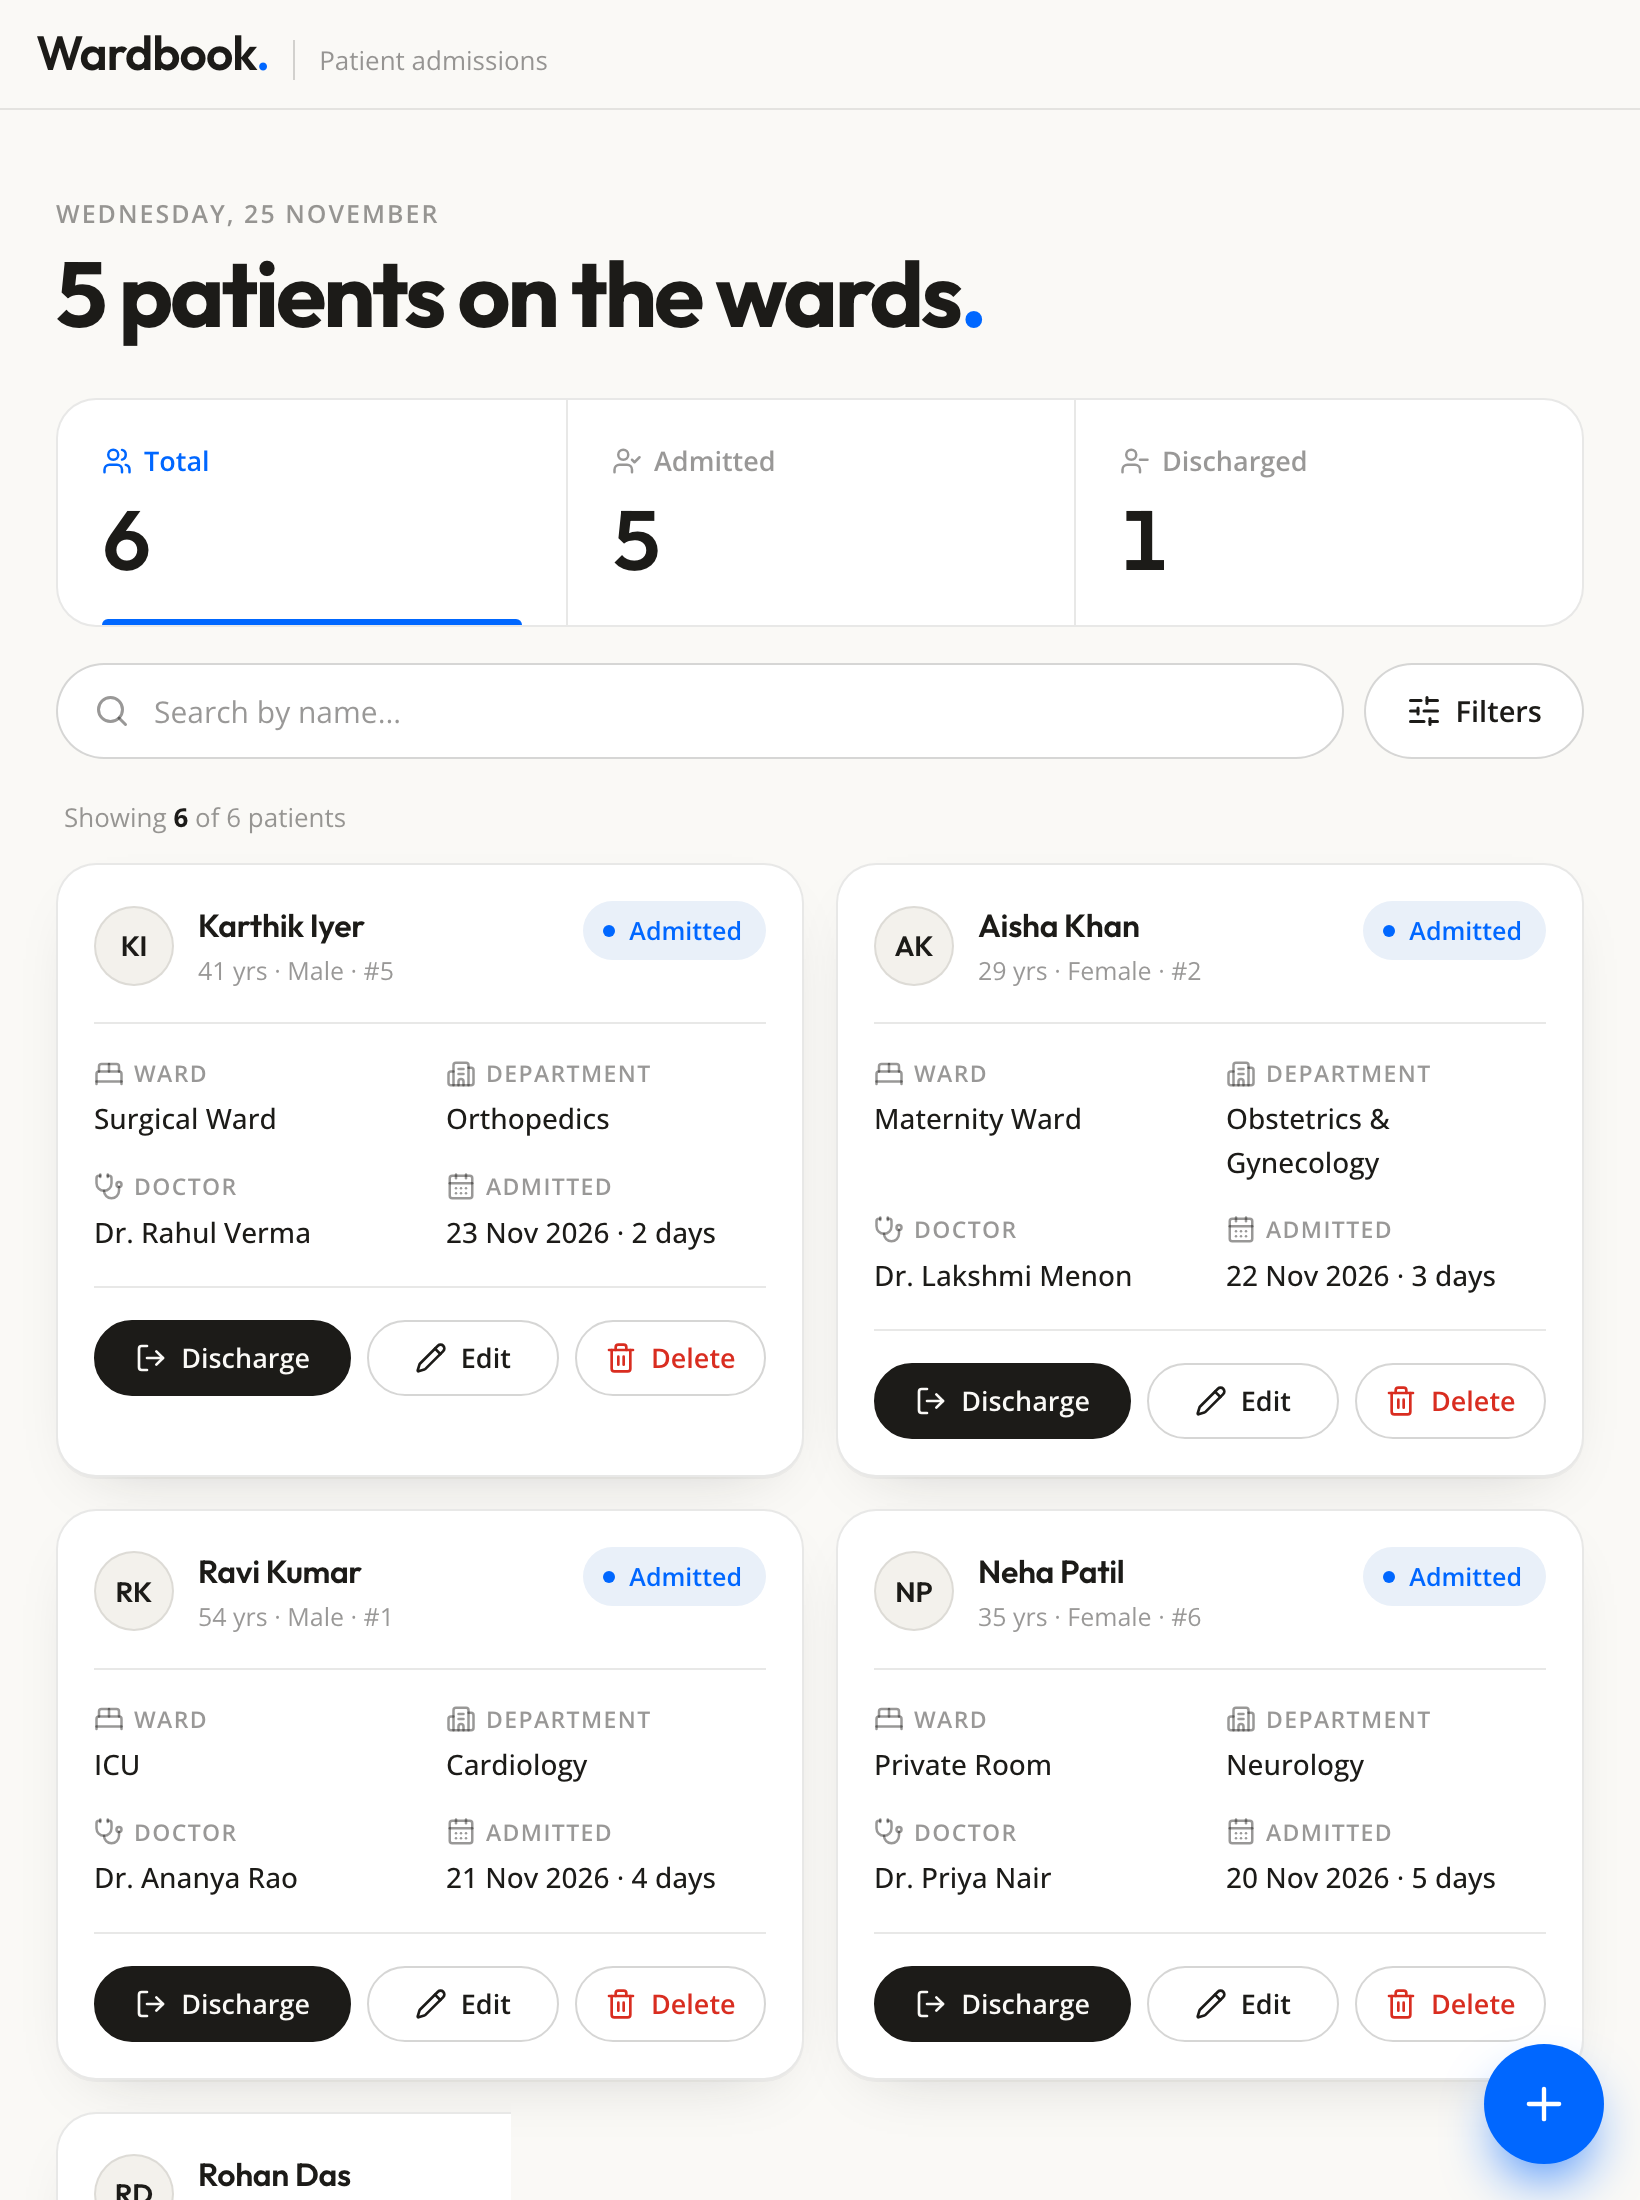
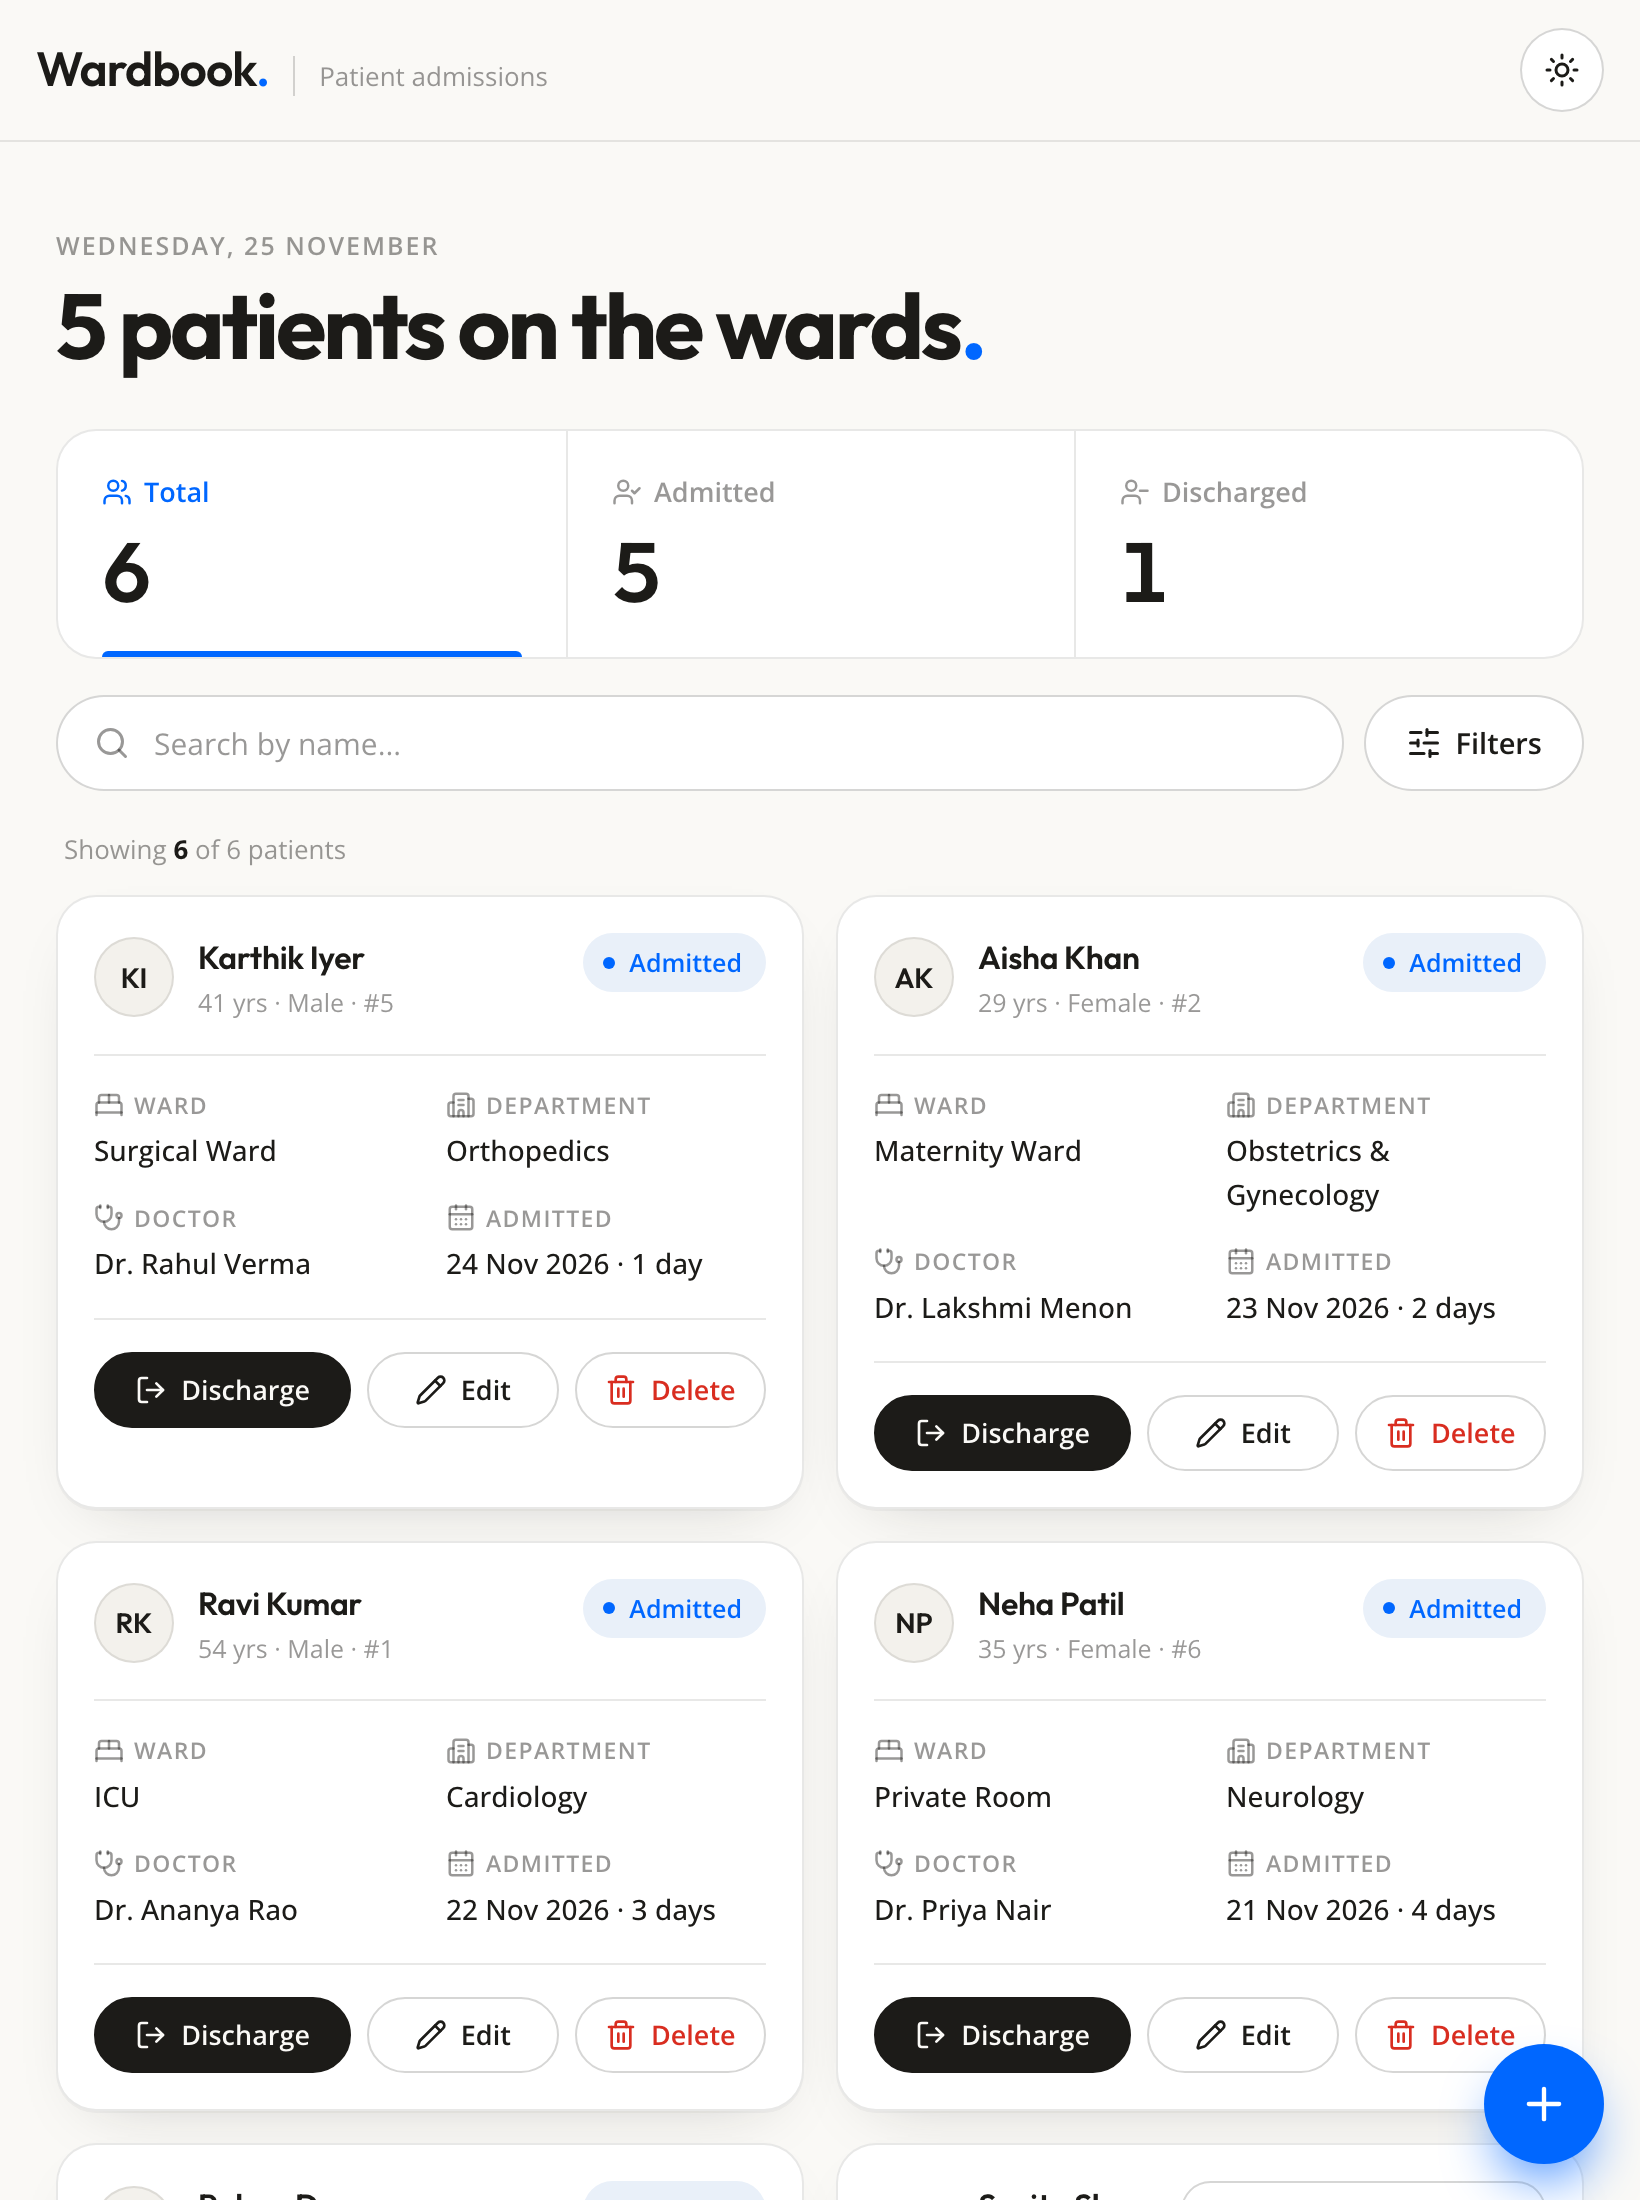
README: requirements checklist, landing page, new screenshots; wrap card badge

diff --git a/frontend/src/index.css b/frontend/src/index.css
@@ -252,7 +252,8 @@ button:disabled { cursor: not-allowed; opacity: 0.5; }
 @media (hover: hover) {
   .card:hover { border-color: var(--line-2); transform: translateY(-2px); box-shadow: 0 18px 40px -24px rgba(28, 27, 24, 0.35); }
 }
-.card-top { display: flex; align-items: flex-start; justify-content: space-between; gap: 10px; }
+.card-top { display: flex; flex-wrap: wrap; align-items: flex-start; justify-content: space-between; gap: 10px; }
+.card-top .patient { flex: 1 1 170px; } /* badge wraps under the name instead of squeezing it */
 .meta { display: grid; grid-template-columns: minmax(0, 1fr) minmax(0, 1fr); gap: 14px 16px; margin: 16px 0; padding: 16px 0; border-block: 1px solid var(--line); }
 .meta div { min-width: 0; }
 .meta dt { display: flex; align-items: center; gap: 5px; font-size: 11.5px; font-weight: 600; letter-spacing: 0.06em; text-transform: uppercase; color: var(--ink-3); }

diff --git a/README.md b/README.md
@@ -2,17 +2,43 @@
 
 A web app for hospital staff to admit, track and discharge patients.
 
-**Live app:** https://wardbook-patient-admission.vercel.app (frontend and backend on one URL)
+- **Live app:** https://wardbook-patient-admission.vercel.app/app (the ward board)
+- **Landing page:** https://wardbook-patient-admission.vercel.app
+- **Repo:** https://github.com/mdayan8/wardbook-patient-admission
 
-**Repo:** https://github.com/mdayan8/wardbook-patient-admission
+Frontend and backend run on one URL; no login is needed.
 
-| Desktop | Dark mode |
+| Landing page | Ward board (desktop) | Dark mode |
+|---|---|---|
+| ![Landing](docs/landing.png) | ![Desktop](docs/desktop.png) | ![Dark](docs/desktop-dark.png) |
+
+| Phone | Phone filters | Validation | Tablet | Small laptop |
+|---|---|---|---|---|
+| ![Phone](docs/mobile.jpg) | ![Filters](docs/mobile-filters.jpg) | ![Form](docs/form-validation.jpg) | ![Tablet](docs/tablet.png) | ![Laptop](docs/laptop.png) |
+
+## Requirements checklist
+
+Every item below was tested on the live site (backend: 37 automated checks; frontend: driven through the real UI).
+
+| Requirement | Where / how |
 |---|---|
-| ![Desktop](docs/desktop.png) | ![Dark](docs/desktop-dark.png) |
-
-| Phone | Phone filters | Validation | Tablet |
-|---|---|---|---|
-| ![Phone](docs/mobile.jpg) | ![Filters](docs/mobile-filters.jpg) | ![Form](docs/form-validation.jpg) | ![Tablet](docs/tablet.png) |
+| Patient fields: name, age, gender, ward, department, doctor, admission date, status | `backend/main.py` table + form in `PatientForm.jsx` |
+| 1. Add a patient | "Add patient" button (or `N`), new patients start as Admitted |
+| 2. View all patients | `/app`: table ≥ 1180px, cards below |
+| 3. Filter by ward, department, doctor | Three dropdowns (combine freely); `GET /api/patients?ward=&department=&doctor=` |
+| 4. Search by name | Search box, case-insensitive, matches highlighted |
+| 5. Edit a patient | Pencil button opens the form prefilled; same validation |
+| 6. Delete with confirmation | Trash button → "Delete …? This can't be undone" dialog |
+| 7. Mark as discharged | One click, records the discharge date, Undo in the toast |
+| 8. Works on mobile, tablet, desktop | Checked at 360, 390, 768, 1024, 1180 and 1440px with no sideways scrolling |
+| Validation in frontend **and** backend | `frontend/src/validation.js` and `PatientIn` in `backend/main.py` (same rules) |
+| Backend rejects bad data with a clear message | `422 {"message": ..., "errors": {field: message}}` |
+| React frontend | React 19 (Vite) |
+| Backend not Node.js | Python (FastAPI) |
+| Data survives restart | Postgres; a record was confirmed present after two redeploys |
+| Public repo, live link, README with screenshots | This page |
+| No passwords or keys in GitHub | Database URL lives only in Vercel environment settings; history scanned |
+| No login required | Open the link and use it |
 
 ## Tech stack
 
@@ -36,7 +62,9 @@ A web app for hospital staff to admit, track and discharge patients.
 - Loading: skeleton rows shaped like the real list, a thin progress bar on refresh, spinners on save/delete
 - Form: gender segmented control, Today/Yesterday date shortcuts, doctor list follows the department,
   errors appear inline as you type and the first invalid field gets focus on submit
-- Light and dark mode follow the system setting; respects reduced-motion
+- Light/dark toggle (sun/moon button) with a circular wipe; remembers your choice, defaults to the system setting
+- Landing page at `/` with a live preview of the ward list; the ward board is at `/app`
+- Respects reduced-motion settings
 
 ## Validation (frontend **and** backend)
 
@@ -107,7 +135,9 @@ No passwords or keys are in this repo; the database URL comes only from environm
 ```
 backend/main.py        FastAPI app: models, validation, routes
 backend/test_api.py    API tests
-frontend/src/App.jsx   list, filters, search, stats, delete dialog
+frontend/src/Landing.jsx  landing page at /
+frontend/src/App.jsx   ward board at /app: list, filters, search, stats, delete dialog
+frontend/src/ThemeToggle.jsx  light/dark switch
 frontend/src/PatientForm.jsx   add/edit form
 frontend/src/validation.js     client-side rules (mirror of the backend)
 api/index.py           Vercel entry that imports backend/main.py
